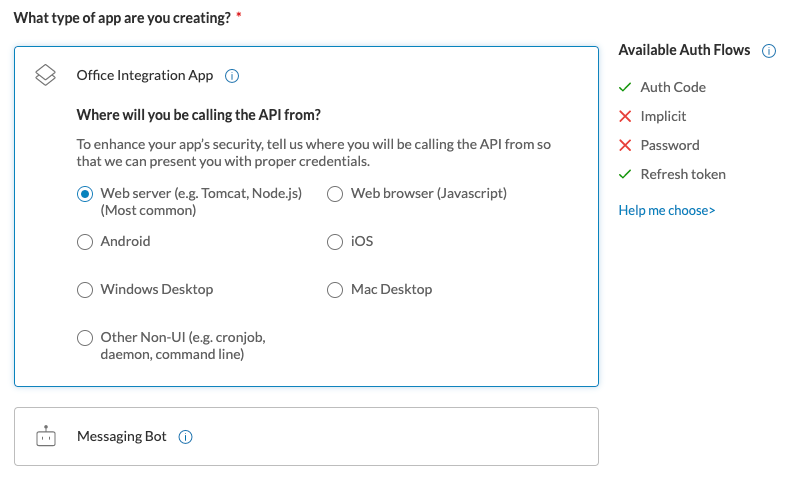
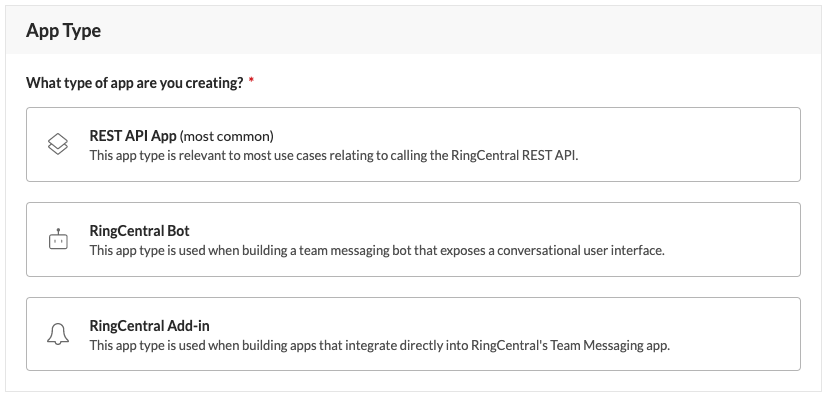
Updated documentation corresponding to latest redesign of the app creation process.

diff --git a/docs/basics/create-app.md b/docs/basics/create-app.md
@@ -1,79 +1,136 @@
-# Creating an Application
+# Creating an application
 
-To create and register your RingCentral application, start by [signing in](https://developers.ringcentral.com/login.html#/) to the RingCentral Developer Console with your account login and password. If you do not have RingCentral account, please sign up.
+To create your RingCentral application, start by [signing in](https://developers.ringcentral.com/login.html#/) to the RingCentral Developer Console with your account login and password. If you do not have RingCentral account, please sign up.
 
 After you login you will be taken to the Apps Console where all of your apps are listed and can be managed. Click the "Create App" button.
 
-!!! note "Permission Required"
+??? note "Is the Create App button disabled?"
     If you see the "Create App" button, but it is disabled, then your account lacks the permission required to create an app. Contact your account's administrator to request this permission.
-
-Upon clicking "Create App" you will be asked a number of questions to configure your app properly. 
 
 ## Select your app type
 
-<img src="../../img/create-app-type.png" class="img-fluid">
+<img src="../../img/create-app-type.png" class="img-fluid float-right ml-3 mb-3" style="max-width: 500px">
 
 RingCentral allows developers to create a number of different types of apps. Each type may expose different configuration options and/or capabilities specific to that app. The two app types we currently support are:
 
-* **API App for RingCentral Office** - this is by far the most common type of app created by developers as it gives developers generalized access to our wide selection of APIs available across our Office product-line (voice, SMS, meetings, team messaging, call logging, call control, etc.)
+* **REST API App** - this is by far the most common type of app created by developers as it gives developers generalized access to our wide selection of APIs available across our MVP product-line (voice, SMS, meetings, team messaging, call logging, call control, etc.)
 
-* **Messaging Bot** - this refers to a special kind of app known as a "bot" used within RingCentral's team messaging product called Glip. 
+* **RingCentral Bot** - this special kind of app known as a "bot" is used within RingCentral's team messaging product.
 
-### Where will you be calling the API from?
+* **RingCentral Add-in** - this app can be installed directly into RingCentral's desktop client to augment it with new functionality
 
-How your app will authenticate itself to the platform will depend upon the architecture and nature of your application. By telling us how and where the RingCentral API will be called, we can better secure your application and guide you towards the best authentication methodology to use. Here are your options:
+<br clear="all">
 
-| Type | Description | Supported Auth Modes | 
-|-|-|-|
-| **Web server** | This is the most common setting and refers to apps that adhere to a traditional client-server relationship, in which API calls to RingCentral are made from a server. | Auth code, Refresh token |
-| **Web browser** | This is for "single-page apps" or those that utilize a pure client-side implementation with no server-side component. | Auth code, implicit grant, refresh token |
-| **Android** | For mobile apps built natively for Android. | Auth code, password, refresh token |
-| **iOS** | For mobile apps built natively for iOS devices, e.g. iPhone | Auth code, password, refresh token |
-| **Windows Desktop** | For downloadable apps built for Windows. | Auth code, password, refresh token |
-| **Mac Desktop** | For downloadable apps build for Macs. | Auth code, password, refresh token |
-| **Other Non-UI** | For apps that run via the command-line. | Password, refresh token |
+### Describe your app
 
-## App Access
+<img src="../../img/create-app-properties.png" class="img-fluid float-right ml-3 mb-3" style="max-width: 500px">
 
-RingCentral can enforce an access policy on behalf of its developers. RingCentral supports the following access policies.
+Once your app type has been selected, provide the basic meta data about your app, like name, icon, etc. Here are a few things to note about these fields.
 
-<img src="../../img/create-app-access.png" class="img-fluid">
+* **App name** - this field is never displayed publically, and is a useful way to help you disambiguate between apps whose names are similar, e.g. "Foo App (staging)" vs "Foo App (qa)."
 
-| Access Level | Description |
-|-|-|
-| **All RingCentral Customers** | This makes your application available to the entire RingCentral ecosystem of customers, including those customers of our brand partners. We often refer to these apps as "public." |
-| **Only members of my organization/conpany** | This restricts access to your app to only users belonging to your RingCentral account. We often refer to these apps as "private." |
-| **Only customers of selected brand partners** | This restricts access to your app to only select brand partners. |
+* **Display name** - this field is what is displayed publicly to users within the context of our applications, like our desktop client. 
 
-!!! tip "Expand the reach of your application!"
-    RingCentral works with a number of partners who white-label the RingCentral platform for their respective markets. Our partners include BT, Telus, Avaya and AT&T. [Learn more about about building apps for these partners &raquo;](../partner-compatibility/)
+* **App icons** - this field may or may not be required based upon the app's type. Add-ins and bots require an icon as these apps often publish messages inside our desktop client. 
 
-## Will you be promoting your app?
+* **Primary contact** - designate a individual to be responsible for receiving and responding to important communications relating to this app.
+
+<br clear="all">
+
+### Will you be promoting your app?
 
 To better support our developers wishing to promote their application to our customers, we ask if you intend to [promote your app in our App Gallery](../app-gallery/). *Your answer is for internal-use only.*
 
-<img src="../../img/create-app-promote.png" class="img-fluid">
+<img src="../../img/create-app-promote.png" class="img-fluid" style="max-width: 500px">
 
-!!! warn "You cannot edit all fields after your app has been created."
-    For security reasons, various properties of your app will become locked once it has been created. Therefore, before you proceed, please verify that your app is compatible with your desired authentication method.
-    
-    <img src="../../img/create-app-confirm.png" class="img-fluid">
+## Setup authentication
 
-## App Properties and Scope
+<img src="../../img/create-app-auth.png" class="img-fluid float-right ml-3 mb-3" style="max-width: 500px">
 
-Finally, fill in the other properties of your app. 
+Select the authentication method your app will utilize to connect to the platform. We support two primary modes:
 
-<img src="../../img/create-app-properties.png" width="50%" class="img-fluid">
+* **3-legged OAuth flow**. This method is used when your application needs to gain access to a user's RingCentral data, or needs to perform various actions upon that user's behalf. This flow requires that your app publish a user interface so that users can initiate the authorization process. 
 
-| Field | Description | 
-|-|-|
-| **Application Name** | Enter the name of your app. This name will be displayed to your users during authorization. |
-| **Organization Name** | Enter the name of your organization. This name will be displayed to your users during authorization. You will only prompted for this the first time you create an app. | 
-| **App Description** | Enter the text describing your app which is needed for app graduation only and will *not* be displayed to your app users. It should contain minimum 20 characters. |
-| **App Permissions** | Enter the permissions, or "app scope" your app will require. This will restrict what APIs your app will have permission to call, and can protect your app from mis-use or abuse. |
-| **URLs** | You may need to register a set of URLs for your app to facilitate a secure authorization process. | 
+* **Password-based**. This method is easy to implement and is ideal for apps that run without a user-interface, e.g. a cron job, or a script. 
 
-## What next? Code your app...
+#### What is PKCE, and when should I use it?
+
+PKCE, or Proof Key for Code Exchange, pronounced "Pixie," is an OAuth 2.0 extension designed to create a more secure way for client-only apps, like mobile apps, desktop applications, and pure javascript apps, to authenticate with the platform. If the answer to "From what type of app will you be calling the API?" is any of the following, then you are required to [implement PKCE](../authentication/auth-code-pkce-flow/):
+
+* Client-side web app, e.g. SPA, Javascript
+* Android mobile app
+* iOS mobile app
+* Windows desktop app
+* Mac desktop app
+
+#### Should I enable refresh tokens?
+
+Auth tokens or "access keys" issued through the OAuth process expire automatically after a short period of time. Refresh tokens are used to keep access keys you have stored locally active and valid. If you desire users to authenticate once to your platform, and not be asked to login again, then you should enable refresh tokens.
+
+When refresh tokens are enabled, an additional "refresh token" will be issued to your application. This token can be presented to RingCentral in order to obtain a new access key, which can then replace the previously issued access key. 
+
+To keep access keys from ever expiring, developers should implement a recurring background task that will wake up once a day, iterate over all access keys stored locally, and exchange their refresh token for a new access key. If this is reliably done, then users will not need to relogin because their auth session will remain fresh and active. 
+
+<br clear="all">
+
+## Configure app security
+
+<img src="../../img/create-app-security.png" class="img-fluid float-right ml-3 mb-3" style="max-width: 500px">
+
+Begin by selecting the permissions or the application scope your app will utilize. This effectively defines what actions your app will be permitted to perform. 
+
+!!! tip "For security, request *only* permissions your application requires."
+
+Next, determine who will have access to your application. The terms "public" and "private" in this context can lead to confusion. To clarifty, public and private here refers to the credentials that will be used to access your application. Here are some questions you can ask yourself to help you choose the right option for your application:
+
+* **Will this application only be used to access my own company's information data?** If this is the case, then you will authenticate to this application using credentials from your own organization. This is the very definition of a private application, so select "private."
+
+* **Am I using RingCentral as a communication platform?** If you are using RingCentral to send SMS messages to your customers, or to schedule and host meetings with your customers, then while your app will be used by people outside of your RingCentral account, you will only be using your own login credentials to make calls the APIs. In this case your app is in fact "private" even though members of the public will be using the app you build. Select "private."
+
+* **Am I building an application specifically intended for RingCentral customers?** If you are an ISV or app developer creating an application that only RingCentral customers can authenticate to and use, then your app is public. Select "public."
+
+#### What partners do I make my app available to?
+
+If you are creating a public application that will be marketed exclusively to RingCentral customers, then we strongly recommend you select "make available to all current and future RingCentral carrier and brand partners." Doing so will ensure your app will be promoted to the largest possible customer base around the world. 
+
+!!! tip "Maximize the reach of your application!"
+    RingCentral works with a number of partners who white-label the RingCentral platform for their respective markets. Our partners include BT, Telus, Avaya and AT&T. [Learn more about about building apps for these partners &raquo;](../partner-compatibility/)
+
+Select "make available only to specific carrier and brand partners" only if your app should be restricted to be used with one partner or another. 
+
+<br clear="all">
+
+## Enable app features
+
+Depending upon your application type, different app features will be made available to your application. 
+
+### Interactive Messages
+
+<img src="../../img/create-app-rest-features.png" class="img-fluid float-right ml-3 mb-3" style="max-width: 500px">
+
+Interactive messages are a feature that allows applications to post messages into the RingCentral team messasing product that contain richly formatted content, and users can interact with using buttons, form elements, and more. Interactive messages are most often used by bots and add-ins. You will need to provide values for the following properties if this feature is enabled.
+
+* **Outbound webhook URL.** This is the URL to which RingCentral will deliver events informing you when a user interacts with messages your application posts. 
+
+* **Shared secret**. This is a string you should consider highly confidential, and will be used by your application to verify the authenticity of any event transmitted to your outbound webhook URL. 
+
+<!--
+Learn more about [interactive messages](../../team-messaging/interactive-messages/) and [Adaptive Cards](../../team-messaging/adaptive-cards/).
+-->
+
+<br clear="all">
+
+### Integrated Installation
+
+<img src="../../img/create-app-addin-features.png" class="img-fluid float-right ml-3 mb-3" style="max-width: 500px">
+
+This feature is only available to RingCentral Add-ins, and is forcibly enabled. The feature defines for RingCentral how users will install your application. You must at least provide manual installation instructions to help users take the incoming webhook URL generated by RingCentral and install that URL into a target service being integrated with.
+
+To maximize the number of people who will successfully install and use your application though, we recommend you implement a web interface that automates the installation process. If you select the "this app can be installed via the web," then the web interface you build will be presented within the RingCentral desktop app via an iframe to provide RingCentral users with a seamless installation experience.
+
+<br clear="all">
+
+## Taking the next step: building your app...
 
 With your application having been created, you are now ready to begin building your app. Make note of your app's Client ID and Client Secret as you will need these when authenticating your app to the platform.
 

diff --git a/docs/basics/app-gallery-button.md b/docs/basics/app-gallery-button.md
@@ -1,0 +1,40 @@
+# Build an App Gallery button
+
+To help our partners promote the app they build to their customers, and to help those customers find and install their app successfully, we make available a simple "Get in the App Gallery" button. 
+
+<img src="../app-gallery-button/png/2x/ag-button@2x.png">
+
+## Constructing a link to the App Gallery
+
+At a very minimum, this button can simply point to your RingCentral App Gallery profile. However, you can also format the link and pass query parameters to affect the behavior of the link to achieve your desired result. 
+
+### Building the base URL
+
+The base URL of the link should be in the following format:
+
+`https://www.ringcentral.com/apps/<APP ID>`
+
+The URL above will exhibit the following behaviors:
+
+1. It will prompt the user to login.
+2. Upon successfully logging in, it will direct the user to the app associated with their partner, e.g. AT&T, Avaya, Verizon, and others. 
+3. It will autodetect the user's platform, e.g. iOS, Android, Windows and MacOS, and direct them to corresponding download option.
+
+### Triggering the app download automatically
+
+If you would like to trigger the download of your application automatically and immediately upon a user loading the page, then add `auto_download=true` as a query parameter. For example:
+
+`https://www.ringcentral.com/apps/<APP ID>?auto_download=true`
+
+## Button assets
+
+* [SVG](../app-gallery-button/svg/ag-button.svg)
+* [PNG 1x](../app-gallery-button/png/1x/ag-button.png)
+* [PNG 2x](../app-gallery-button/png/2x/ag-button@2x.png)
+
+## Icon assets
+
+* [SVG](../app-gallery-button/svg/app-icon.svg)
+* [PNG 1x](../app-gallery-button/png/1x/app-icon.png)
+* [PNG 2x](../app-gallery-button/png/2x/app-icon@2x.png)
+

diff --git a/docs/authentication/quick-start.md b/docs/authentication/quick-start.md
@@ -18,16 +18,16 @@ The first thing we need to do is create an app in the RingCentral Developer Port
 <ol>
 <li><a href="https://developer.ringcentral.com/login.html#/">Login or create an account</a> if you have not done so already.</li>
 <li>Go to Console/Apps and click 'Create App' button.</li>
-<li>Select "API App for RingCentral Office" under "What type of app are you creating?"</li>
-<li>Select "Web server" under "Where will you be calling the API from?"
-<li>Select "Only members of my organization/company" under "Who will be authorized to access your app?"
-<li>On the second page of the create app wizard, enter your app's name and description. Then select the following permissions:
+<li>Select "REST API App" under "What type of app are you creating?" Click "Next."</li>
+<li>Under "Authentication" select "3-legged OAuth flow authorization code" and then "Server-side web app."</li>
+<li>Under "Authentication" specify the redirect Uri as http://localhost:5000/oauth2callback.</li>
+<li>Under "Security" add the following permissions:
   <ul>
     <li>ReadAccounts</li>
     <li>ReadCallLog</li>
   </ul>
-  </li>
-<li>Specify the redirect Uri as http://localhost:5000/oauth2callback.</li>
+</li>
+<li>Under "Security" select "This app is private and will only be callable using credentials from the same RingCentral account."</li>
 </ol>
 </div>
 

diff --git a/docs/messaging/quick-start.md b/docs/messaging/quick-start.md
@@ -21,16 +21,15 @@ The first thing we need to do is create an app in the RingCentral Developer Port
 <ol>
 <li><a href="https://developer.ringcentral.com/login.html#/">Login or create an account</a> if you have not done so already.</li>
 <li>Go to Console/Apps and click 'Create App' button.</li>
-<li>Select "API App for RingCentral Office" under "What type of app are you creating?"</li>
-<li>Select "Other Non-UI" under "Where will you be calling the API from?"
-<li>Select "Only members of my organization/company" under "Who will be authorized to access your app?"
-<li>On the second page of the create app wizard, enter your app's name and description. Then select the following permissions:
+<li>Select "REST API App" under "What type of app are you creating?" Click "Next."</li>
+<li>Under "Authentication" select "Password-based auth flow."
+<li>Under "Security" add the following permissions:
   <ul>
     <li>SMS</li>
     <li>ReadAccounts</li>
   </ul>
-  </li>
-<li>We are using Password Flow authentication, so leave "OAuth Redirect URI" blank.</li>
+</li>
+<li>Under "Security" select "This app is private and will only be callable using credentials from the same RingCentral account."</li>
 </ol>
 </div>
 

diff --git a/docs/meetings/quick-start.md b/docs/meetings/quick-start.md
@@ -24,15 +24,14 @@ The first thing we need to do is create an app in the RingCentral Developer Port
 <ol>
 <li><a href="https://developer.ringcentral.com/login.html#/">Login or create an account</a> if you have not done so already.</li>
 <li>Go to Console/Apps and click 'Create App' button.</li>
-<li>Select "API App for RingCentral Office" under "What type of app are you creating?"</li>
-<li>Select "Other Non-UI" under "Where will you be calling the API from?"
-<li>Select "Only members of my organization/company" under "Who will be authorized to access your app?"
-<li>On the second page of the create app wizard, enter your app's name and description. Then select the following permissions:
+<li>Select "REST API App" under "What type of app are you creating?" Click "Next."</li>
+<li>Under "Authentication" select "Password-based auth flow."
+<li>Under "Security" add the following permissions:
   <ul>
     <li>Meetings</li>
   </ul>
-  </li>
-<li>We are using Password Flow authentication, so leave "OAuth Redirect URI" blank.</li>
+</li>
+<li>Under "Security" select "This app is private and will only be callable using credentials from the same RingCentral account."</li>
 </ol>
 </div>
 

diff --git a/docs/team-messaging/quick-start.md b/docs/team-messaging/quick-start.md
@@ -19,15 +19,14 @@ The first thing we need to do is create an app in the RingCentral Developer Port
 <ol>
 <li><a href="https://developer.ringcentral.com/login.html#/">Login or create an account</a> if you have not done so already.</li>
 <li>Go to Console/Apps and click 'Create App' button.</li>
-<li>Select "API App for RingCentral Office" under "What type of app are you creating?"</li>
-<li>Select "Other Non-UI" under "Where will you be calling the API from?"
-<li>Select "Only members of my organization/company" under "Who will be authorized to access your app?"
-<li>On the second page of the create app wizard, enter your app's name and description. Then select the following permissions:
+<li>Select "REST API App" under "What type of app are you creating?" Click "Next."</li>
+<li>Under "Authentication" select "Password-based auth flow."
+<li>Under "Security" add the following permissions:
   <ul>
     <li>Glip</li>
   </ul>
-  </li>
-<li>We are using Password Flow authentication, so leave "OAuth Redirect URI" blank.</li>
+</li>
+<li>Under "Security" select "This app is private and will only be callable using credentials from the same RingCentral account."</li>
 </ol>
 </div>
 

diff --git a/docs/notifications/push-notifications/quick-start.md b/docs/notifications/push-notifications/quick-start.md
@@ -18,15 +18,14 @@ The first thing we need to do is create an app in the RingCentral Developer Port
 <ol>
 <li><a href="https://developer.ringcentral.com/login.html#/">Login or create an account</a> if you have not done so already.</li>
 <li>Go to Console/Apps and click 'Create App' button.</li>
-<li>Select "API App for RingCentral Office" under "What type of app are you creating?"</li>
-<li>Select "Other Non-UI" under "Where will you be calling the API from?"
-<li>Select "Only members of my organization/company" under "Who will be authorized to access your app?"
-<li>On the second page of the create app wizard, enter your app's name and description. Then select the following permissions:
+<li>Select "REST API App" under "What type of app are you creating?" Click "Next."</li>
+<li>Under "Authentication" select "Password-based auth flow."
+<li>Under "Security" add the following permissions:
   <ul>
     <li>SMS</li>
   </ul>
-  </li>
-<li>We are using Password Flow authentication, so leave "OAuth Redirect URI" blank.</li>
+</li>
+<li>Under "Security" select "This app is private and will only be callable using credentials from the same RingCentral account."</li>
 </ol>
 </div>
 

diff --git a/docs/voice/quick-start.md b/docs/voice/quick-start.md
@@ -18,15 +18,14 @@ The first thing we need to do is create an app in the RingCentral Developer Port
 <ol>
 <li><a href="https://developer.ringcentral.com/login.html#/">Login or create an account</a> if you have not done so already.</li>
 <li>Go to Console/Apps and click 'Create App' button.</li>
-<li>Select "API App for RingCentral Office" under "What type of app are you creating?"</li>
-<li>Select "Other Non-UI" under "Where will you be calling the API from?"
-<li>Select "Only members of my organization/company" under "Who will be authorized to access your app?"
-<li>On the second page of the create app wizard, enter your app's name and description. Then select the following permissions:
+<li>Select "REST API App" under "What type of app are you creating?" Click "Next."</li>
+<li>Under "Authentication" select "Password-based auth flow."
+<li>Under "Security" add the following permissions:
   <ul>
     <li>RingOut</li>
   </ul>
 </li>
-<li>We are using Password Flow authentication, so leave "OAuth Redirect URI" blank.</li>
+<li>Under "Security" select "This app is private and will only be callable using credentials from the same RingCentral account."</li>
 </ol>
 </div>
 

diff --git a/docs/notifications/webhooks/quick-start.md b/docs/notifications/webhooks/quick-start.md
@@ -17,15 +17,14 @@ The first thing we need to do is create an app in the RingCentral Developer Port
 <ol>
 <li><a href="https://developer.ringcentral.com/login.html#/">Login or create an account</a> if you have not done so already.</li>
 <li>Go to Console/Apps and click 'Create App' button.</li>
-<li>Select "API App for RingCentral Office" under "What type of app are you creating?"</li>
-<li>Select "Other Non-UI" under "Where will you be calling the API from?"
-<li>Select "Only members of my organization/company" under "Who will be authorized to access your app?"
-<li>On the second page of the create app wizard, enter your app's name and description. Then select the following permissions:
+<li>Select "REST API App" under "What type of app are you creating?" Click "Next."</li>
+<li>Under "Authentication" select "Password-based auth flow."
+<li>Under "Security" add the following permissions:
   <ul>
-    <li>WebhookSubscriptions, SMS</li>
+    <li>WebhookSubscriptions</li>
+    <li>SMS</li>
   </ul>
-  </li>
-<li>We are using Password Flow authentication, so leave "OAuth Redirect URI" blank.</li>
+</li>
 </ol>
 </div>
 

diff --git a/docs/basics/your-first-steps.md b/docs/basics/your-first-steps.md
@@ -49,8 +49,6 @@ This field determines what development features will be made available to your a
 
 * **Server/No UI** - this is the only platform type that allows for password-based authentication.
 
-!!! danger "You cannot edit Platform Type after your app has been created"
-
 [Learn more about platform types in "Creating an Application" &raquo;](../create-app/)
 
 #### Permissions
